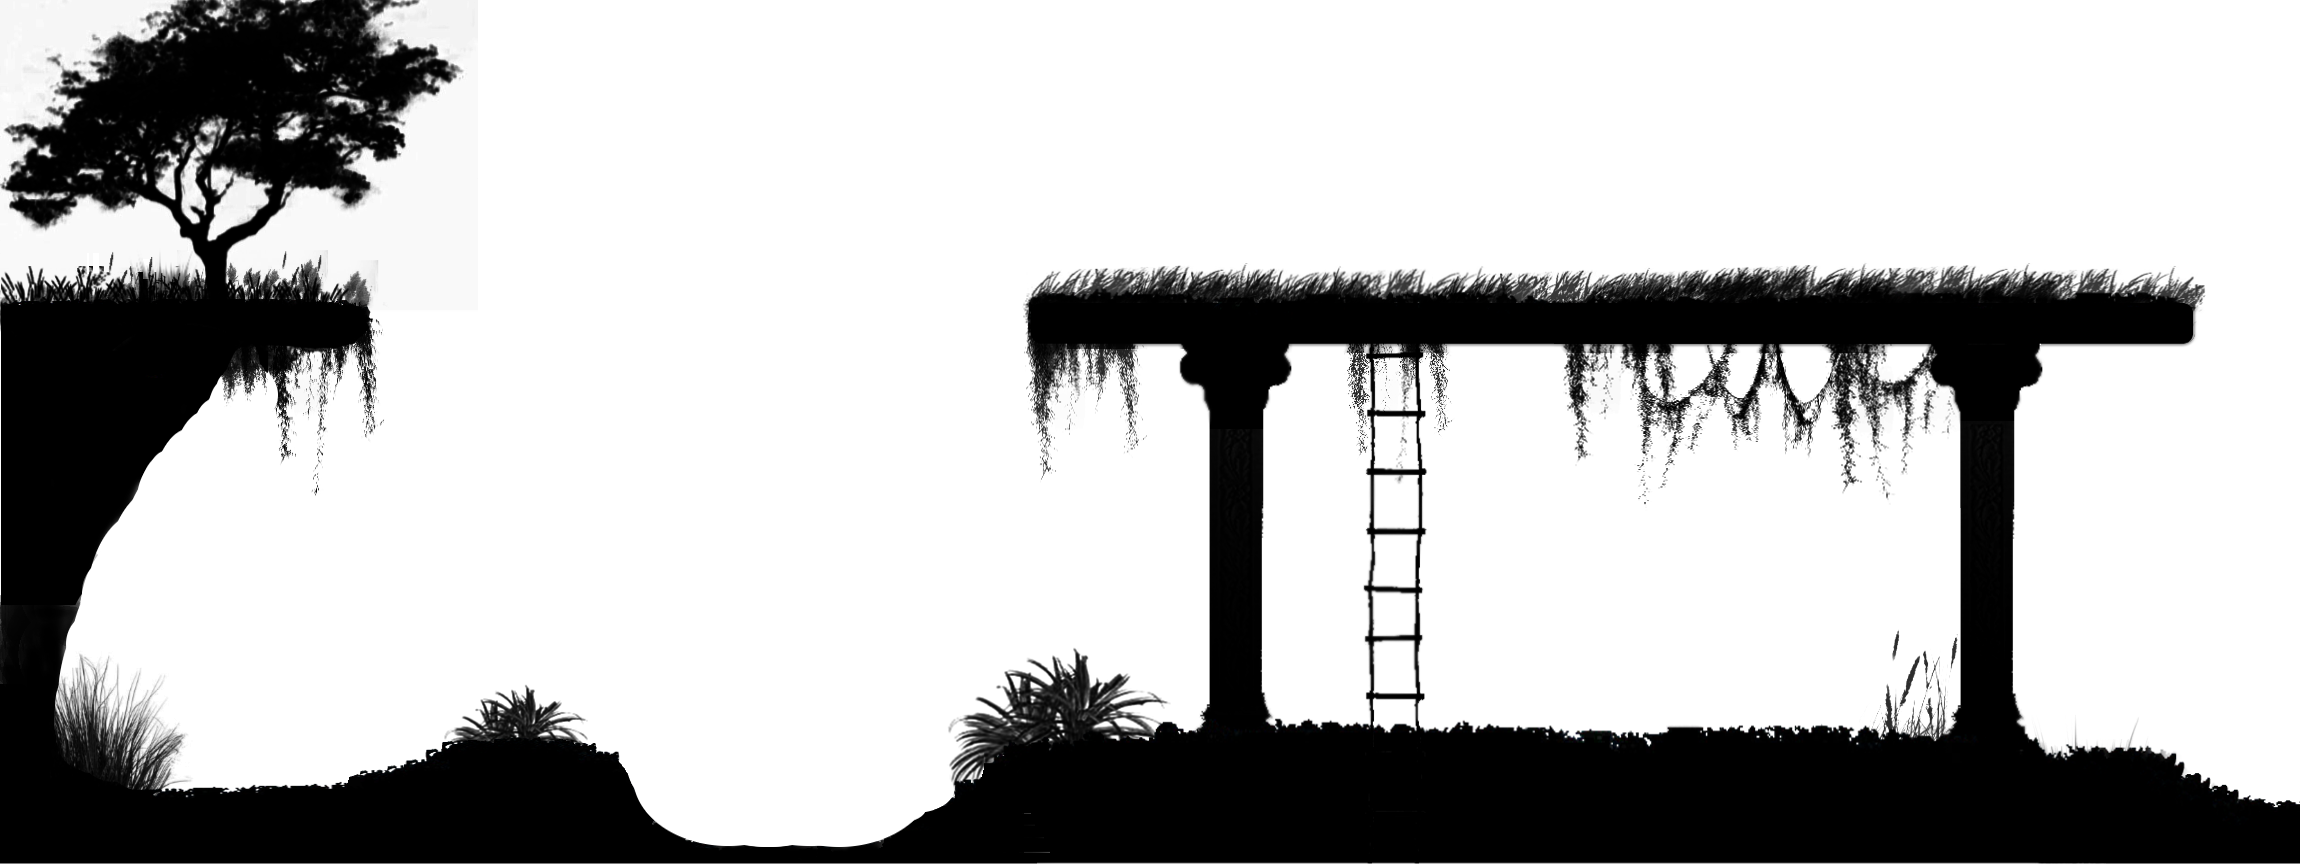
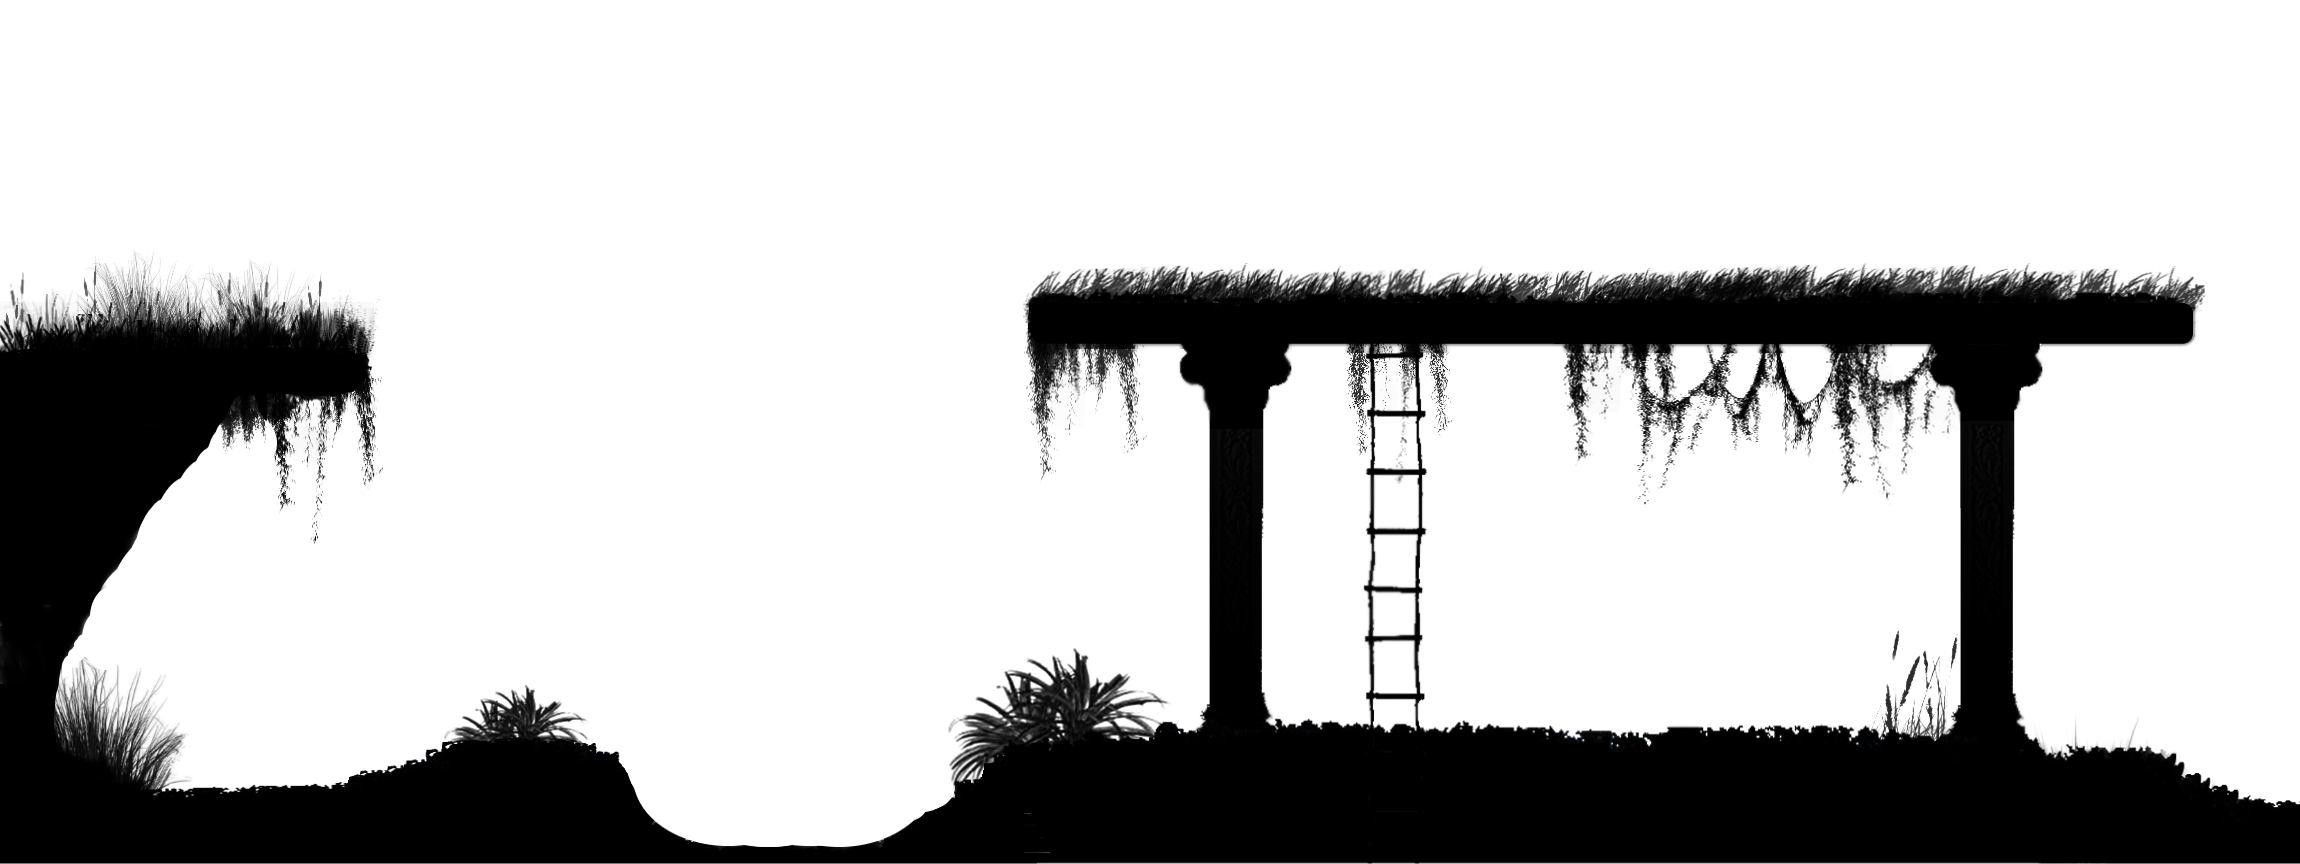
Foreground moves in 1/2 times slower than first plane. Upgraded level image.

Changed region(s): [[0.0, 0.0, 0.2161, 0.75]]

diff --git a/src/World/Environ/Foreground.cpp b/src/World/Environ/Foreground.cpp
@@ -11,5 +11,5 @@ void Foreground::update(float windPower, float elapsed, float globalTime)
 {
     float yPos = 0.0f;
     if (!levelManager().getForegroundFixed()) yPos = levelManager().getCamViewport().top;
-    mForeground.draw(mGC, levelManager().getCamViewport().left, yPos);
+    mForeground.draw(mGC, levelManager().getCamViewport().left * 0.5, yPos);
 }
